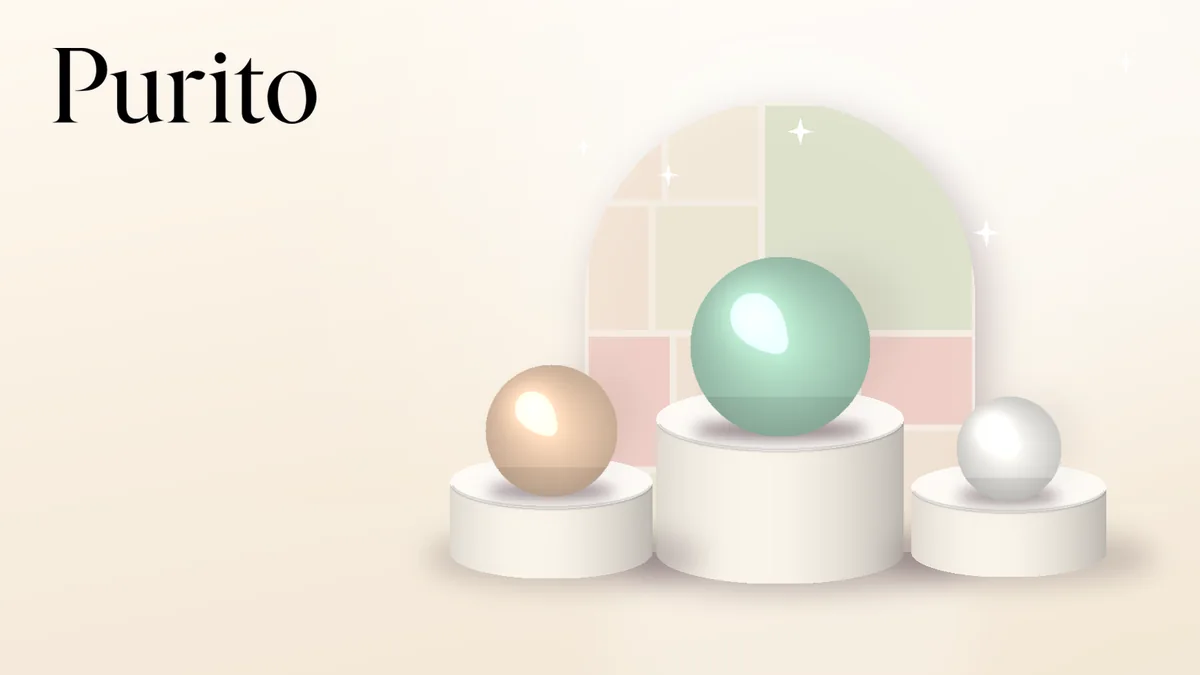
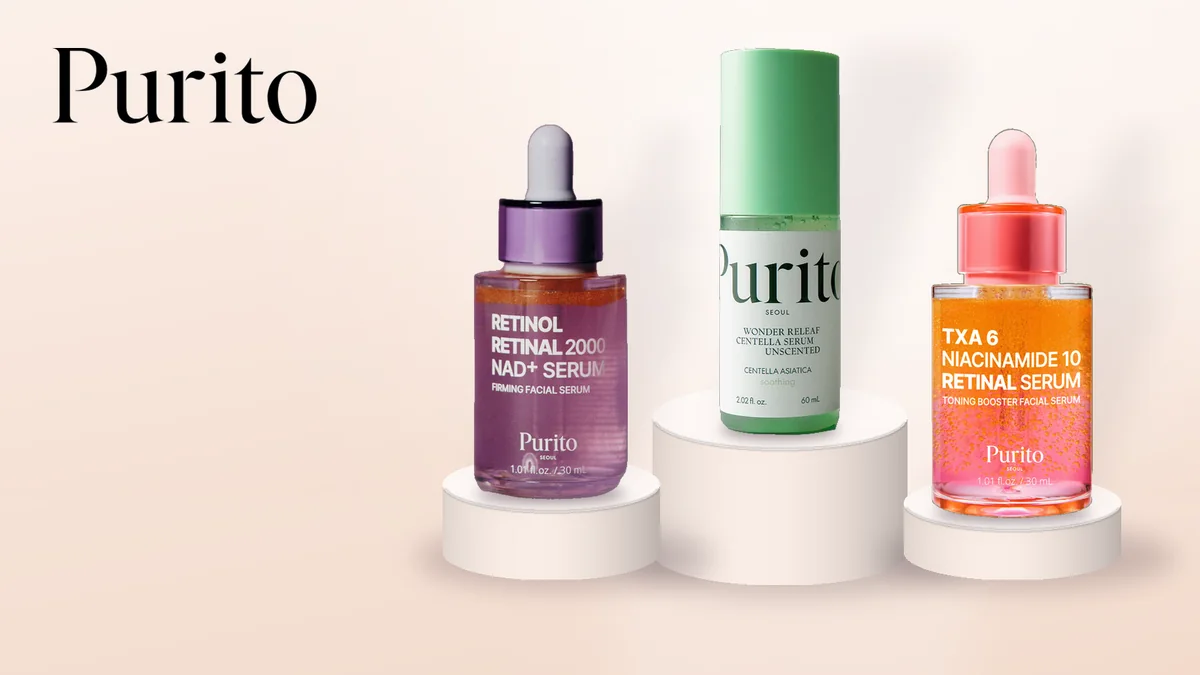
Purito: cena da marca com produtos reais
Claude-Session: https://claude.ai/code/session_01LxTRdjkTdLyM14waSGSEFh

diff --git a/tools/marcas/compor_cenas.py b/tools/marcas/compor_cenas.py
@@ -15,7 +15,7 @@ CENA = {"anua": [1, 0, 6], "arencia": [6, 7, 5], "aromatica": [0, 6, 7], "banila
  "dr-melaxin": [2, 3, 5], "dr-reju-all": [2, 1], "ilso": [5, 6, 7], "kaine": [0, 4, 6], "lador": [1, 3, 6],
  "manyo": [1], "medicube": [6, 1, 7], "mediheal": [4, 5], "mise-en-scene": [4, 6, 7], "mixsoon": [2, 3, 4],
  "purcell": [0, 1, 2], "round-lab": [2, 4, 3], "skin1004": [1, 0, 4], "some-by-mi": [7, 5], "tirtir": [1, 2, 7],
- "torriden": [6, 5, 2], "wellage": [0, 2, 6], "another-face": [6], "ongredients": [7], "numbuzin": [0, 1, 2]}
+ "torriden": [6, 5, 2], "wellage": [0, 2, 6], "another-face": [6], "ongredients": [7], "numbuzin": [0, 1, 2], "purito-seoul": [0, 1, 2]}
 M = json.load(open(f"{R}/site/marcas/marcas.json", encoding="utf-8"))
 W, H = 1600, 900
 OUTW, OUTH = 1200, 675
